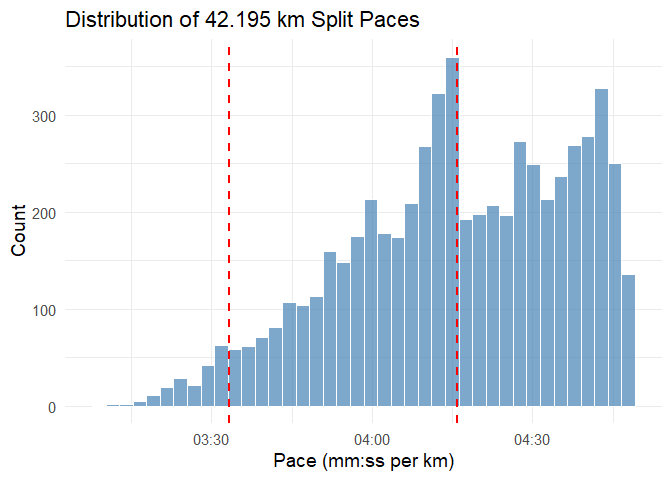
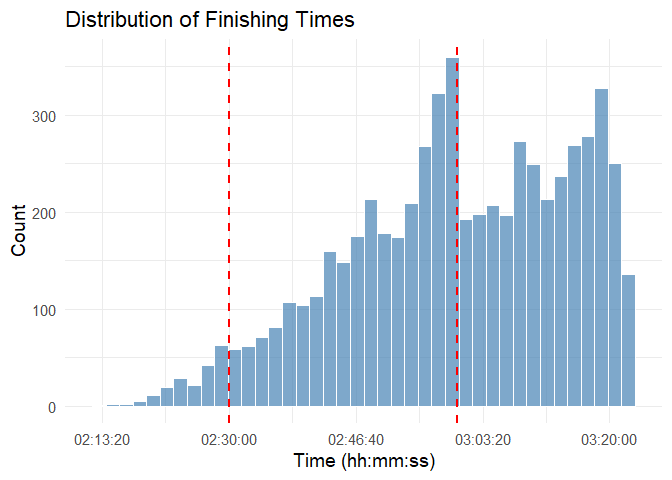
Edit README

diff --git a/README.md b/README.md
@@ -52,17 +52,14 @@ actually rewards.
 For readers who have never run a marathon, three terms are worth
 defining up front, since everything below is built on them:
 
-- **Distance.** A marathon is 42.195 km. Races record *splits* — the
-  elapsed time at fixed checkpoints (timing mats) along the course,
-  e.g. at 5 km, 10 km, the half (21.1 km), and so on.
+- **Distance.** A marathon is 42.195 km.
+- **Splits** are recorded by races as the the elapsed time between fixed
+  checkpoints (timing mats) along the course, e.g. at 5 km, 10 km, the
+  half (21.1 km), and so on.
 - **Pace.** Speed expressed as time per kilometre, written `mm:ss`
   (e.g. a pace of `04:30` means four minutes thirty seconds per km).
   Lower pace = faster. Pace is just the inverse of speed, scaled to the
-  units runners actually talk in.
-- **Split / negative split.** A *split* is the pace over one segment
-  between two mats. A *negative split* is running the second half at a
-  lower (faster) pace than the first — the strategy this package treats
-  as the target.
+  units runners actually think in.
 
 ## Installation
 
@@ -72,6 +69,7 @@ You can install the development version of PacemakeR from
 ``` r
 # install.packages("devtools")
 devtools::install_github("Runandecon/PacemakeR")
+library(PacemakeR)
 ```
 
 ## The data
@@ -92,7 +90,6 @@ into segment paces. This is the data-manipulation backbone everything
 downstream relies on.
 
 ``` r
-library(PacemakeR)
 data("London_Marathon_2026")
 head(London_Marathon_2026)
 #>              Name Nationality  Bib Distance     Time
@@ -158,18 +155,18 @@ marathon_summary(London_Marathon_2026, distance = 5, pace = TRUE, plot = TRUE, m
     #> 4 max      304.  05:04    
     #> 5 sd        20.1 00:20
 
-    marathon_summary(London_Marathon_2026, distance = 42.195, pace = TRUE, plot = TRUE, markers = c("02:30:00", "03:00:00"))
+    marathon_summary(London_Marathon_2026, plot = TRUE, markers = c("02:30:00", "03:00:00"))
 
 <img src="man/figures/README-pacing-distribution-2.png" alt="" width="100%" />
 
     #> # A tibble: 5 × 3
     #>   metric seconds formatted
     #>   <chr>    <dbl> <chr>    
-    #> 1 mean     256.  04:16    
-    #> 2 median   256.  04:16    
-    #> 3 min      189.  03:09    
-    #> 4 max      288.  04:48    
-    #> 5 sd        20.9 00:21
+    #> 1 mean    10800. 03:00:00 
+    #> 2 median  10816  03:00:16 
+    #> 3 min      7974  02:12:54 
+    #> 4 max     12148  03:22:28 
+    #> 5 sd        882. 00:14:42
 
 ### `pacemaker()` — distil the strategy
 
@@ -195,20 +192,37 @@ a custom class, `pacemaker`, that bundles the curve, the
 cumulative-advantage data, and metadata about the fit. Defining a class
 lets the package give the object its own `print` and `plot` methods, so
 it behaves like a first-class R object: typing its name dispatches to
-`print.pacemaker`, which lays out the pacing progression as a table, and
-calling `plot()` dispatches to `plot.pacemaker`, which draws the curve.
+`pacemaker_print`, which lays out the pacing progression as a table, and
+calling `plot()` dispatches to `pacemaker_plot`, which draws the curve.
 The single object is the whole analysis — everything you might want to
 see is computed once and read off it on demand.
 
 ``` r
-#opt <- pacemaker(London_Marathon_2026, reference = 25)
-#opt          # dispatches to print.pacemaker: the pacing progression as a table
+london <- pacemaker(London_Marathon_2026, relative = 21.0975)
 ```
 
 ``` r
-#pacemaker_print(obj)
-#pacemaker_plot(obj)
+pacemaker_print(london)
+#> <pacemaker> pacing analysis
+#>   Reference split : 21.0975 km
+#>   Runners used    : 6027
+#>   Aggregated by   : mean
+#> 
+#>  Distance Rel_pace Change Neg_split
+#>    5.0000    1.013     NA     0.996
+#>   10.0000    1.006 -0.007     0.990
+#>   15.0000    0.986 -0.020     0.977
+#>   20.0000    1.011  0.025     1.009
+#>   21.0975    1.000 -0.011     1.000
+#>   25.0000    0.992 -0.008     1.004
+#>   30.0000    0.969 -0.023     1.000
+#>   35.0000    0.945 -0.024     1.004
+#>   40.0000    0.925 -0.020     1.013
+#>   42.1950    0.927  0.001     1.023
+pacemaker_plot(london)
 ```
+
+<img src="man/figures/README-curve-plot-1.png" alt="" width="100%" />
 
 ### `plot(opt, "gain")` — price the payoff
 
@@ -227,12 +241,16 @@ how far ahead the negative-split strategy puts you, expressed in units a
 runner cares about.
 
 ``` r
-#pacemaker_plot(opt, "gain")                                   # advantage in metres
+pacemaker_plot(london, "gain")                                   # advantage in metres
 ```
 
+<img src="man/figures/README-gain-1.png" alt="" width="100%" />
+
 ``` r
-#pacemaker_plot(opt, "gain", unit = "time", pace_sec = 300)    # same advantage, in seconds
+pacemaker_plot(london, "gain", unit = "time", pace_sec = 300)    # same advantage, in seconds
 ```
+
+<img src="man/figures/README-gain-time-1.png" alt="" width="100%" />
 
 ## Course tools at a glance
 